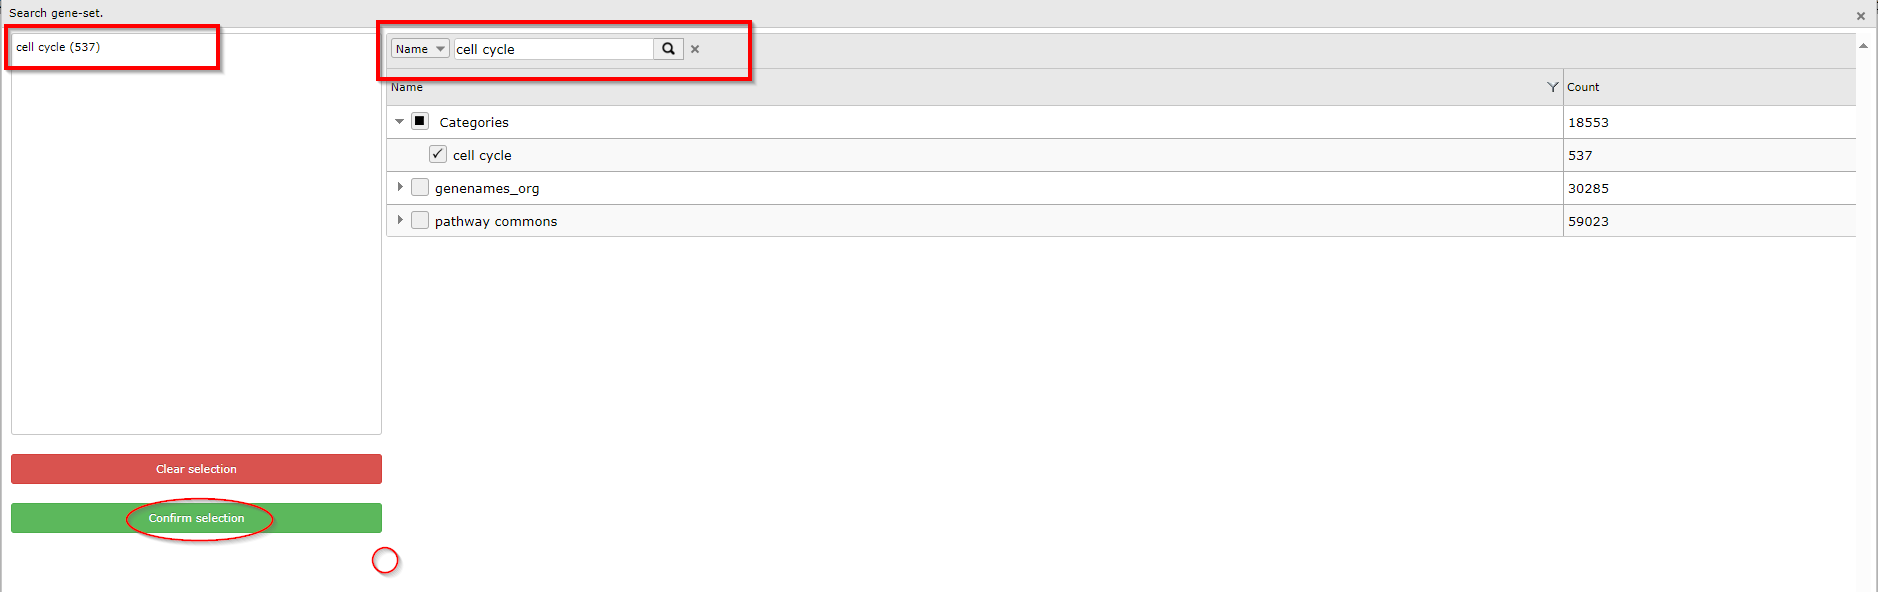
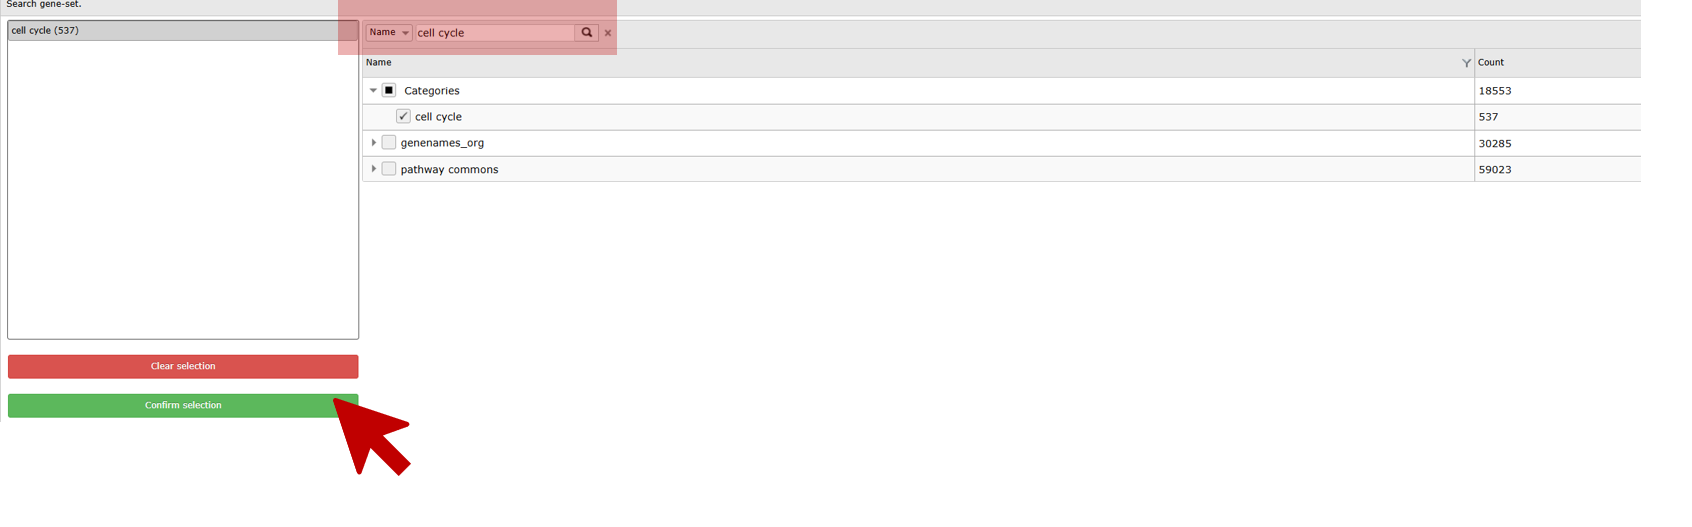
small typo + updated pics

diff --git a/docs/Using_Genesets_creating_Heatmaps.md b/docs/Using_Genesets_creating_Heatmaps.md
@@ -28,9 +28,9 @@ Step 1: Selecting data and modules; creating a Heatmap
 1.  On the main page of R2 select View Geneset (Heatmap) (Figure 1).
     Click 'Next'.
     
-	![](_static/images/Usinggenesets/UsingGenesets_Select1a.png "Figure    1: Select View a    Geneset")
+	![](_static/images/Usinggenesets/UsingGenesets_Select1b.png "Figure    1: Select View a    Geneset")
 	
-	[**Figure    1: Select: View a Geneset**](_static/images/Usinggenesets/UsingGenesets_Select1a.png)
+	[**Figure    1: Select: View a Geneset**](_static/images/Usinggenesets/UsingGenesets_Select1b.png)
 	
 2.  In the Adjustable settings many choices are available to customize
     the way the GeneSet data will be presented (Figure 2). With the geneset selection method you can indicate wether you want to pick one of the hundreds genesets R2 harbors; public or your own genesets. Selecting the manual ordered list enables you also to manipulate the ordering of the genes om de heatmap. In the adjustable settings many settings can be altered, such filtering for samples, the sample order and many types of graphical adaptations.
@@ -40,7 +40,7 @@ Step 1: Selecting data and modules; creating a Heatmap
     [**Figure    2: A set can be selected, filtered for subsets and the clustering results will be ordered according to the selection**](_static/images/Usinggenesets/UsingGenesets_Settings1a.png)
 
 3.  By default R2 presents the data in a heatmap where a hierarchical clustering is performed on the genes, making use of the information present in all samples to order the data. We will show  first what this ordering by clustering looks like. Suppose we want to find a geneset
-containing Cell Cycle genes. Click on **"Select a geneset"**, Type Cell Cycle in the 'Search a geneset' box.
+containing Cell Cycle genes. Click on **"Select a geneset"**, Type Cell Cycle in the 'Search a geneset' box, and click submit
 
     ![](_static/images/Usinggenesets/UsingGenesets_Collections1a.png "Figure    3: Selecting a geneset  R2")
 
@@ -65,7 +65,6 @@ containing Cell Cycle genes. Click on **"Select a geneset"**, Type Cell Cycle in
     ![](_static/images/Usinggenesets/UsingGenesets_Heatmap.png "Figure 5:Heatmap view of the Cell Cycle geneset for the Neuroblastoma 88 dataset; genes and samples are sorted according to the clustering.")
 	
     [**Figure 5: Heatmap view of the Kegg Cell Cycle geneset for the Neuroblastoma 88 dataset;genes and samples are sorted according to the clustering.**](_static/images/Usinggenesets/UsingGenesets_Heatmap.png)
-	
 
 
 Step 2: Using multiple GeneSets
@@ -87,9 +86,9 @@ Step 2: Using multiple GeneSets
     annotated with their membership to both pathways;  Using both genesets shows clearly some blocks in the heatmap which could be linked to the annotation plotted above the heatmap
 
 
-![](_static/images/Usinggenesets/UsingGenesets_Heatmap_multiple.png "Figure 7: Heatmap view of the Cell Cycle and Apoptosis genesets for the Neuroblastoma 88 dataset.")
+![](_static/images/Usinggenesets/UsingGenesets_Heatmap_multiple1a.png "Figure 7: Heatmap view of the Cell Cycle and Apoptosis genesets for the Neuroblastoma 88 dataset.")
 	
-[**Figure 7: Heatmap view of the Cell Cycle and Apoptosis genesets for the Neuroblastoma 88 dataset.**](_static/images/Usinggenesets/UsingGenesets_Heatmap_multiple.png)
+[**Figure 7: Heatmap view of the Cell Cycle and Apoptosis genesets for the Neuroblastoma 88 dataset.**](_static/images/Usinggenesets/UsingGenesets_Heatmap_multiple1a.png)
 	
 
 
@@ -111,6 +110,7 @@ Step 3: Relating genesets with data annotation
     genes pathways cluster that is consistently
     upregulated in the stage 4 Neuroblastoma samples (in red in the
     INSS track).
+3. 
 
 [![](_static/images/Usinggenesets/UsingGenesets_HeatmapSorted1a.png)**Figure
     9: Heatmap sorted by INSS stage, there is a clear relation between
@@ -163,7 +163,7 @@ to do a simple hierarchical clustering
     case leave " which set" at standard deviation (SD) which is the
     default settings.
 
-    ![](_static/images/Usinggenesets/UsingGenesets_Toplister.png "Figure    10: Selecting the domain to order samples by: Order by a    track")
+    ![](_static/images/Usinggenesets/UsingGenesets_Toplister1a.png "Figure    10: Selecting the domain to order samples by: Order by a    track")
 
     [**Figure    10: Selecting the track (subgroup) to order samples by: Order by a  track**](_static/images/Usinggenesets/UsingGenesets_Toplister.png)
 
@@ -182,9 +182,9 @@ In this case the selected TCGA dataset gene annotation has been assigned to genc
 Clicking on the Heatmap (Zscore)  in the right menu will perform an  unsupervised hierarchical clustering and plots a heatmap. 
 
 
-![](_static/images/Usinggenesets/UsingGenesets_Unsupervised1a.png "'Figure 12: Unsupervised hierarchical clustering revealing subgroups in a Esophagal Carcinma dataset.")
+![](_static/images/Usinggenesets/UsingGenesets_Unsupervised1b.png "'Figure 12: Unsupervised hierarchical clustering revealing subgroups in a Esophagal Carcinma dataset.")
 	
-[**Figure 12: Unsupervised hierarchical clustering revealing subgroups in a Esophagal Carcinoma dataset.**](_static/images/Usinggenesets/UsingGenesets_Unsupervised1a.png)
+[**Figure 12: Unsupervised hierarchical clustering revealing subgroups in a Esophagal Carcinoma dataset.**](_static/images/Usinggenesets/UsingGenesets_Unsupervised1b.png)
 
 
 
